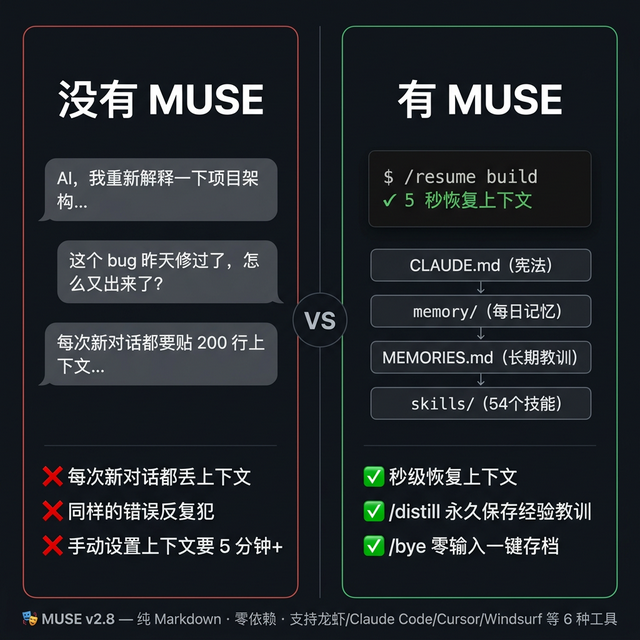
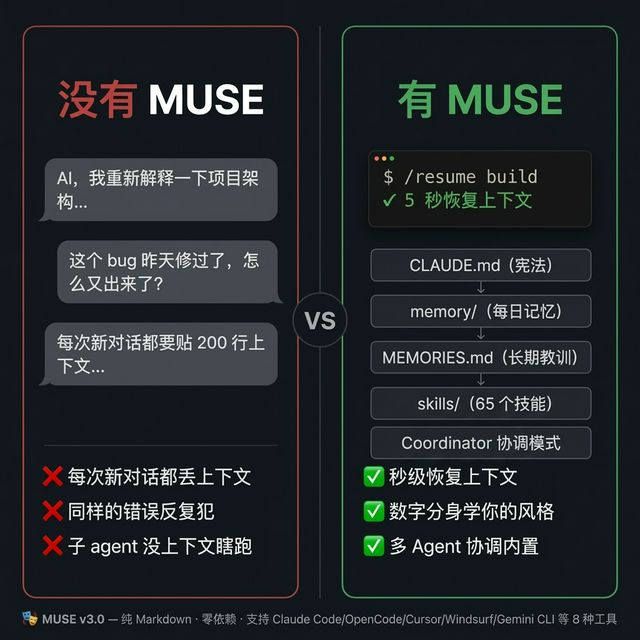
docs: update visual assets to v3.0 — before-after EN/CN (65 skills, 8 tools, Coordinator, Digital Twin) + demo animation v3.0 boot sequence

diff --git a/assets/demo-source.html b/assets/demo-source.html
@@ -1,164 +1,241 @@
 <!DOCTYPE html>
 <html lang="en">
+
 <head>
-<meta charset="UTF-8">
-<title>MUSE Demo</title>
-<style>
-  @import url('https://fonts.googleapis.com/css2?family=JetBrains+Mono:wght@400;700&display=swap');
-  * { margin: 0; padding: 0; box-sizing: border-box; }
-  body {
-    background: #0d1117;
-    display: flex;
-    align-items: center;
-    justify-content: center;
-    min-height: 100vh;
-    font-family: 'JetBrains Mono', 'SF Mono', 'Fira Code', monospace;
-  }
-  .window {
-    width: 960px;
-    background: #161b22;
-    border-radius: 12px;
-    box-shadow: 0 8px 40px rgba(0,0,0,0.6);
-    overflow: hidden;
-  }
-  .titlebar {
-    background: #21262d;
-    height: 38px;
-    display: flex;
-    align-items: center;
-    padding: 0 14px;
-    gap: 8px;
-  }
-  .dot { width: 12px; height: 12px; border-radius: 50%; }
-  .dot.r { background: #ff5f57; }
-  .dot.y { background: #febc2e; }
-  .dot.g { background: #28c840; }
-  .titlebar-text {
-    flex: 1;
-    text-align: center;
-    color: #8b949e;
-    font-size: 13px;
-    margin-right: 56px;
-  }
-  .terminal {
-    padding: 16px 20px;
-    min-height: 500px;
-    color: #c9d1d9;
-    font-size: 14px;
-    line-height: 1.7;
-    overflow: hidden;
-  }
-  .prompt { color: #7ee787; }
-  .cmd { color: #f0f6fc; font-weight: bold; }
-  .muted { color: #8b949e; }
-  .accent { color: #58a6ff; }
-  .warn { color: #d29922; }
-  .success { color: #3fb950; }
-  .fail { color: #f85149; }
-  .emoji { font-family: 'Apple Color Emoji', 'Segoe UI Emoji', sans-serif; }
-  .highlight { color: #ff7b72; font-weight: bold; }
-  .line { opacity: 0; transform: translateY(4px); transition: opacity 0.25s, transform 0.25s; white-space: pre-wrap; }
-  .line.show { opacity: 1; transform: translateY(0); }
-  .cursor-blink::after {
-    content: '▊';
-    color: #58a6ff;
-    animation: blink 1s step-end infinite;
-  }
-  @keyframes blink { 0%,100%{opacity:1} 50%{opacity:0} }
-  .progress-bar { display: inline-block; }
-  .section-gap { height: 10px; }
-</style>
+  <meta charset="UTF-8">
+  <title>MUSE Demo</title>
+  <style>
+    @import url('https://fonts.googleapis.com/css2?family=JetBrains+Mono:wght@400;700&display=swap');
+
+    * {
+      margin: 0;
+      padding: 0;
+      box-sizing: border-box;
+    }
+
+    body {
+      background: #0d1117;
+      display: flex;
+      align-items: center;
+      justify-content: center;
+      min-height: 100vh;
+      font-family: 'JetBrains Mono', 'SF Mono', 'Fira Code', monospace;
+    }
+
+    .window {
+      width: 960px;
+      background: #161b22;
+      border-radius: 12px;
+      box-shadow: 0 8px 40px rgba(0, 0, 0, 0.6);
+      overflow: hidden;
+    }
+
+    .titlebar {
+      background: #21262d;
+      height: 38px;
+      display: flex;
+      align-items: center;
+      padding: 0 14px;
+      gap: 8px;
+    }
+
+    .dot {
+      width: 12px;
+      height: 12px;
+      border-radius: 50%;
+    }
+
+    .dot.r {
+      background: #ff5f57;
+    }
+
+    .dot.y {
+      background: #febc2e;
+    }
+
+    .dot.g {
+      background: #28c840;
+    }
+
+    .titlebar-text {
+      flex: 1;
+      text-align: center;
+      color: #8b949e;
+      font-size: 13px;
+      margin-right: 56px;
+    }
+
+    .terminal {
+      padding: 16px 20px;
+      min-height: 520px;
+      color: #c9d1d9;
+      font-size: 14px;
+      line-height: 1.7;
+      overflow: hidden;
+    }
+
+    .prompt {
+      color: #7ee787;
+    }
+
+    .cmd {
+      color: #f0f6fc;
+      font-weight: bold;
+    }
+
+    .muted {
+      color: #8b949e;
+    }
+
+    .accent {
+      color: #58a6ff;
+    }
+
+    .warn {
+      color: #d29922;
+    }
+
+    .success {
+      color: #3fb950;
+    }
+
+    .fail {
+      color: #f85149;
+    }
+
+    .gold {
+      color: #C9A84C;
+    }
+
+    .emoji {
+      font-family: 'Apple Color Emoji', 'Segoe UI Emoji', sans-serif;
+    }
+
+    .highlight {
+      color: #ff7b72;
+      font-weight: bold;
+    }
+
+    .line {
+      opacity: 0;
+      transform: translateY(4px);
+      transition: opacity 0.25s, transform 0.25s;
+      white-space: pre-wrap;
+    }
+
+    .line.show {
+      opacity: 1;
+      transform: translateY(0);
+    }
+
+    .cursor-blink::after {
+      content: '▊';
+      color: #58a6ff;
+      animation: blink 1s step-end infinite;
+    }
+
+    @keyframes blink {
+
+      0%,
+      100% {
+        opacity: 1
+      }
+
+      50% {
+        opacity: 0
+      }
+    }
+  </style>
 </head>
+
 <body>
-<div class="window">
-  <div class="titlebar">
-    <div class="dot r"></div>
-    <div class="dot y"></div>
-    <div class="dot g"></div>
-    <div class="titlebar-text">my-startup — Claude Code + MUSE v2.9</div>
+  <div class="window">
+    <div class="titlebar">
+      <div class="dot r"></div>
+      <div class="dot y"></div>
+      <div class="dot g"></div>
+      <div class="titlebar-text">my-startup — Claude Code + MUSE v3.0</div>
+    </div>
+    <div class="terminal" id="term"></div>
   </div>
-  <div class="terminal" id="term"></div>
-</div>
-<script>
-const lines = [
-  // Phase 1: /resume command
-  { t: 'html', html: '<span class="prompt">❯</span> <span class="cmd">/resume build</span>', delay: 800 },
-  { t: 'html', html: '', delay: 400 },
+  <script>
+    const lines = [
+      // Phase 1: /resume command
+      { t: 'html', html: '<span class="prompt">❯</span> <span class="cmd">/resume build</span>', delay: 800 },
+      { t: 'html', html: '', delay: 400 },
 
-  // Phase 2: Boot sequence
-  { t: 'html', html: '<span class="accent">🔄 MUSE Boot Sequence</span>', delay: 500 },
-  { t: 'html', html: '<span class="muted">  ① CLAUDE.md + MEMORIES.md</span>  <span class="success">✓ loaded</span>', delay: 350 },
-  { t: 'html', html: '<span class="muted">  ② memory/2026-03-14.md</span>     <span class="success">✓ 6 pending items found</span>', delay: 350 },
-  { t: 'html', html: '<span class="muted">  ③ USER.md</span>                 <span class="success">✓ Claude Opus 4 · 200K</span>', delay: 350 },
-  { t: 'html', html: '<span class="muted">  ④ .muse/build.md</span>          <span class="success">✓ 342 lines · last update: 2h ago</span>', delay: 350 },
-  { t: 'html', html: '<span class="muted">  ⑤ Strategy directives</span>     <span class="success">✓ no new directives</span>', delay: 350 },
-  { t: 'html', html: '', delay: 300 },
+      // Phase 2: Boot sequence (v3.0)
+      { t: 'html', html: '<span class="accent">🔄 MUSE Boot Sequence</span> <span class="muted">v3.0</span>', delay: 500 },
+      { t: 'html', html: '<span class="muted">  ① CLAUDE.md + MEMORIES.md</span>   <span class="success">✓ loaded</span>', delay: 350 },
+      { t: 'html', html: '<span class="muted">  ② memory/2026-04-02.md</span>      <span class="success">✓ 4 pending items</span>', delay: 350 },
+      { t: 'html', html: '<span class="muted">  ②.1 Memory drift detection</span>  <span class="success">✓ 0 stale (all &lt;7d)</span>', delay: 350 },
+      { t: 'html', html: '<span class="muted">  ③ USER.md</span>                  <span class="success">✓ Static + Dynamic profile</span>', delay: 350 },
+      { t: 'html', html: '<span class="muted">  ④ .muse/build.md</span>           <span class="success">✓ L0 scanned · 65 skills</span>', delay: 350 },
+      { t: 'html', html: '<span class="muted">  ⑤ Strategy directives</span>      <span class="gold">✓ 1 new directive (S087)</span>', delay: 350 },
+      { t: 'html', html: '', delay: 300 },
 
-  // Phase 3: Resume report
-  { t: 'html', html: '<span class="success">━━━ Resume Report ━━━━━━━━━━━━━━━━━━━━━━━━━━━━━━━━━</span>', delay: 400 },
-  { t: 'html', html: '<span class="emoji">📍</span> <span class="accent">Current:</span> Payment API integration (P0)', delay: 300 },
-  { t: 'html', html: '<span class="emoji">🚨</span> <span class="warn">Pending:</span> 2 items from yesterday', delay: 300 },
-  { t: 'html', html: '<span class="emoji">💡</span> <span class="accent">Next:</span> Fix Stripe webhook handler → run tests', delay: 300 },
-  { t: 'html', html: '<span class="success">━━━━━━━━━━━━━━━━━━━━━━━━━━━━━━━━━━━━━━━━━━━━━━━━━━━</span>', delay: 500 },
-  { t: 'html', html: '', delay: 600 },
+      // Phase 3: Resume report
+      { t: 'html', html: '<span class="success">━━━ Resume Report ━━━━━━━━━━━━━━━━━━━━━━━━━━━━━━━━━</span>', delay: 400 },
+      { t: 'html', html: '<span class="emoji">📍</span> <span class="accent">Current:</span> Payment API integration (P0)', delay: 300 },
+      { t: 'html', html: '<span class="emoji">📡</span> <span class="gold">New directive:</span> S087 → Coordinator mode upgrade', delay: 300 },
+      { t: 'html', html: '<span class="emoji">💡</span> <span class="accent">Next:</span> Fix Stripe webhook → run tests', delay: 300 },
+      { t: 'html', html: '<span class="success">━━━━━━━━━━━━━━━━━━━━━━━━━━━━━━━━━━━━━━━━━━━━━━━━━━━</span>', delay: 500 },
+      { t: 'html', html: '', delay: 600 },
 
-  // Phase 4: Work session
-  { t: 'html', html: '<span class="prompt">❯</span> <span class="cmd">Fix the Stripe webhook 400 error</span>', delay: 900 },
-  { t: 'html', html: '', delay: 400 },
-  { t: 'html', html: '<span class="muted">  Reading src/api/webhooks.ts...</span>', delay: 350 },
-  { t: 'html', html: '<span class="muted">  Found: missing signature verification on line 47</span>', delay: 400 },
-  { t: 'html', html: '<span class="success">  ✓ Fixed — added Stripe.webhooks.constructEvent()</span>', delay: 350 },
-  { t: 'html', html: '<span class="success">  ✓ Tests passing: 12/12</span>', delay: 350 },
-  { t: 'html', html: '', delay: 600 },
+      // Phase 4: Work session
+      { t: 'html', html: '<span class="prompt">❯</span> <span class="cmd">Fix the Stripe webhook 400 error</span>', delay: 900 },
+      { t: 'html', html: '', delay: 400 },
+      { t: 'html', html: '<span class="muted">  Reading src/api/webhooks.ts...</span>', delay: 350 },
+      { t: 'html', html: '<span class="muted">  Found: missing signature verification on line 47</span>', delay: 400 },
+      { t: 'html', html: '<span class="success">  ✓ Fixed — added Stripe.webhooks.constructEvent()</span>', delay: 350 },
+      { t: 'html', html: '<span class="success">  ✓ Tests passing: 12/12</span>', delay: 350 },
+      { t: 'html', html: '', delay: 600 },
 
-  // Phase 5: /ctx check
-  { t: 'html', html: '<span class="prompt">❯</span> <span class="cmd">/ctx</span>', delay: 700 },
-  { t: 'html', html: '<span class="warn">  🟡 Context: ~65% — 8-10 rounds remaining</span>', delay: 400 },
-  { t: 'html', html: '', delay: 600 },
+      // Phase 5: /ctx check
+      { t: 'html', html: '<span class="prompt">❯</span> <span class="cmd">/ctx</span>', delay: 700 },
+      { t: 'html', html: '<span class="warn">  🟡 Context: ~65% — 8-10 rounds remaining</span>', delay: 400 },
+      { t: 'html', html: '', delay: 600 },
 
-  // Phase 6: /bye
-  { t: 'html', html: '<span class="prompt">❯</span> <span class="cmd">/bye</span>', delay: 800 },
-  { t: 'html', html: '', delay: 400 },
-  { t: 'html', html: '<span class="accent">📝 Auto-saving session...</span>', delay: 400 },
-  { t: 'html', html: '<span class="muted">  ① .muse/build.md</span>      <span class="success">✓ synced</span>', delay: 300 },
-  { t: 'html', html: '<span class="muted">  ② memory/2026-03-14.md</span> <span class="success">✓ written</span>', delay: 300 },
-  { t: 'html', html: '<span class="muted">  ③ Distill check</span>        <span class="success">✓ 3 files — not yet needed</span>', delay: 300 },
-  { t: 'html', html: '', delay: 300 },
-  { t: 'html', html: '<span class="success">✅ Session saved. See you next /resume!</span>', delay: 500 },
-  { t: 'html', html: '<span class="prompt cursor-blink">❯</span>', delay: 2000 },
-];
+      // Phase 6: /bye
+      { t: 'html', html: '<span class="prompt">❯</span> <span class="cmd">/bye</span>', delay: 800 },
+      { t: 'html', html: '', delay: 400 },
+      { t: 'html', html: '<span class="accent">📝 Auto-saving session...</span>', delay: 400 },
+      { t: 'html', html: '<span class="muted">  ① .muse/build.md</span>       <span class="success">✓ synced</span>', delay: 300 },
+      { t: 'html', html: '<span class="muted">  ② memory/2026-04-02.md</span>  <span class="success">✓ written (4 categories)</span>', delay: 300 },
+      { t: 'html', html: '<span class="muted">  ③ Digital Twin profile</span>  <span class="success">✓ updated</span>', delay: 300 },
+      { t: 'html', html: '<span class="muted">  ④ Distill check</span>         <span class="success">✓ 5 files — /distill recommended</span>', delay: 300 },
+      { t: 'html', html: '', delay: 300 },
+      { t: 'html', html: '<span class="success">✅ Session saved. See you next /resume!</span>', delay: 500 },
+      { t: 'html', html: '<span class="prompt cursor-blink">❯</span>', delay: 2000 },
+    ];
 
-const term = document.getElementById('term');
-let i = 0;
+    const term = document.getElementById('term');
+    let i = 0;
 
-function showNext() {
-  if (i >= lines.length) {
-    // Loop after pause
-    setTimeout(() => {
-      term.innerHTML = '';
-      i = 0;
-      showNext();
-    }, 3000);
-    return;
-  }
-  const l = lines[i];
-  const div = document.createElement('div');
-  div.className = 'line';
-  div.innerHTML = l.html;
-  term.appendChild(div);
+    function showNext() {
+      if (i >= lines.length) {
+        setTimeout(() => {
+          term.innerHTML = '';
+          i = 0;
+          showNext();
+        }, 3000);
+        return;
+      }
+      const l = lines[i];
+      const div = document.createElement('div');
+      div.className = 'line';
+      div.innerHTML = l.html;
+      term.appendChild(div);
+      term.scrollTop = term.scrollHeight;
+      requestAnimationFrame(() => {
+        requestAnimationFrame(() => { div.classList.add('show'); });
+      });
+      i++;
+      setTimeout(showNext, l.delay);
+    }
 
-  // Auto-scroll
-  term.scrollTop = term.scrollHeight;
-
-  requestAnimationFrame(() => {
-    requestAnimationFrame(() => { div.classList.add('show'); });
-  });
-
-  i++;
-  setTimeout(showNext, l.delay);
-}
-
-setTimeout(showNext, 600);
-</script>
+    setTimeout(showNext, 600);
+  </script>
 </body>
+
 </html>
